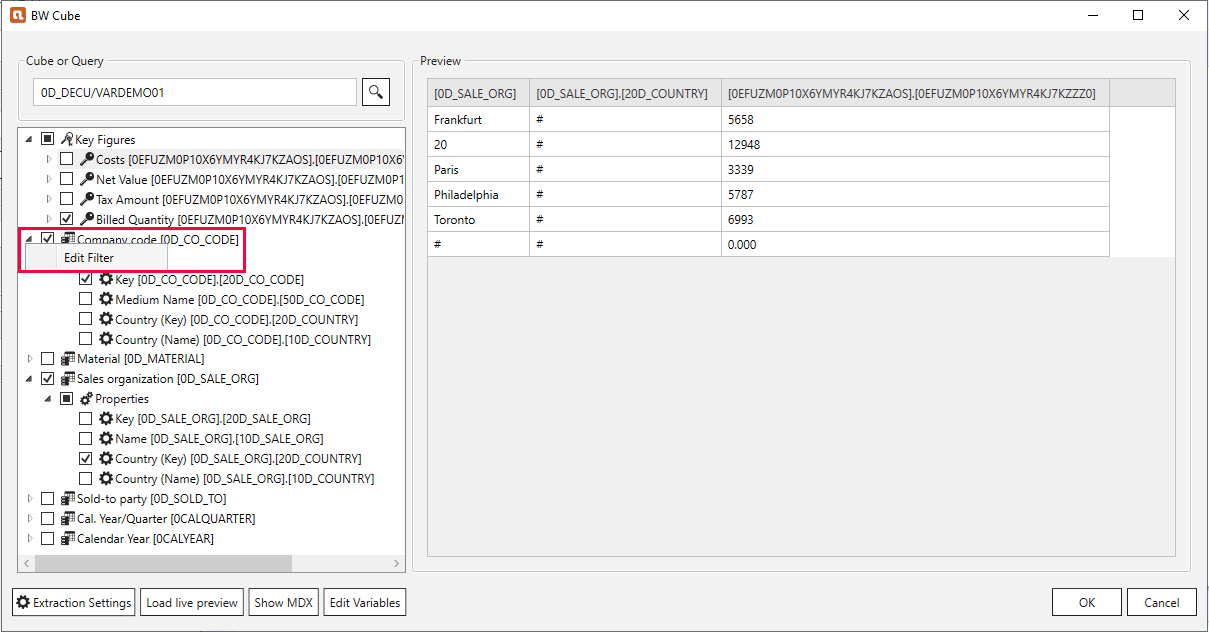
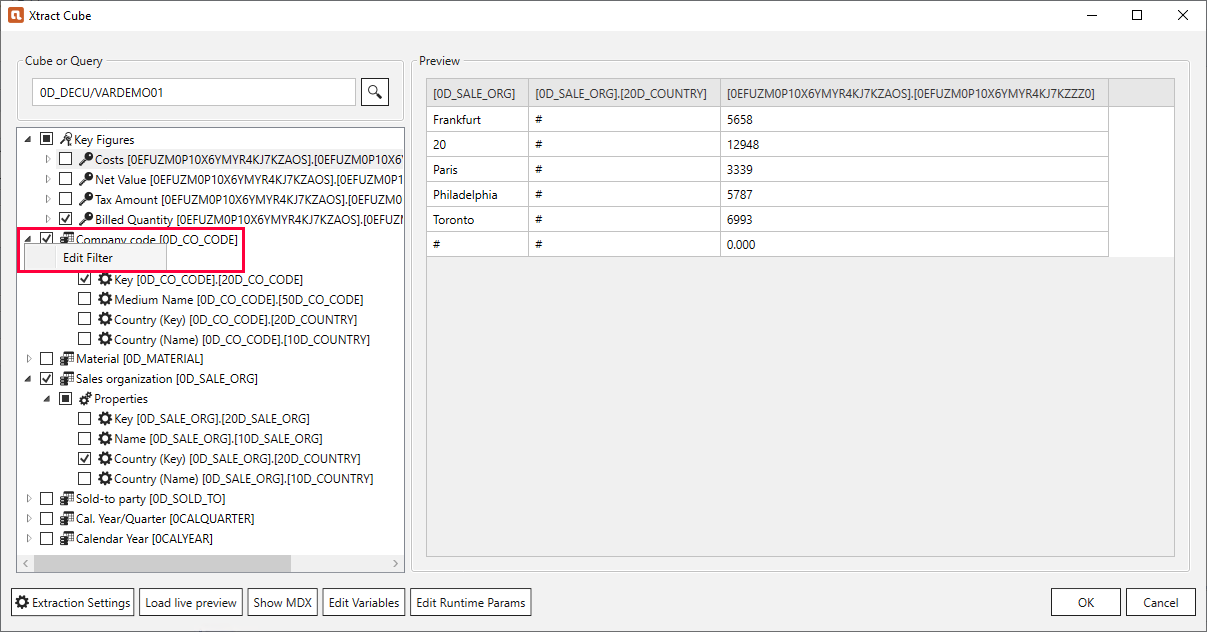
Translation pt.1

diff --git a/content/_de/xtract-for-alteryx/bw-cube.md b/content/_de/xtract-for-alteryx/bw-cube.md
@@ -11,17 +11,17 @@ weight: 6
 lang: de_DE
 progressstate: 5
 ---
-Der folgende Abschnitt beschreibt die Funktion der Xtract for Alteryx BW Cube Komponente. <br>
-Die BW Cube Komponente von Xtract for Alteryx kann verwendet werden, um die Daten aus  SAP BW InfoProviders (z.B. Cubes) oder Queries zu extrahieren und im Anschluss in Alteryx weiter zu bearbeiten.
+Der folgende Abschnitt beschreibt die Funktion der Xtract Cube Komponente in Xtract for Alteryx. <br>
+Die Xtract Cube Komponente kann verwendet werden, um die Daten aus SAP BW (BEx) Queries und InfoProviders (z.B. InfoCubes) zu extrahieren. 
+Die Xtract Cube Komponente unterstützt zwei Extraktionmodi: MDX und BICS (beta).
 
 {: .box-tip }
 **Tipp:** Grundlagen zum Produkt sind im Abschnitt [Erste Schritte mit Xtract for Alteryx](./erste-schritte) beschrieben.
 
 ### BW Cube verwenden
 1. Ziehen Sie die "Xtract BW Cube" Komponente per drag & drop auf Ihr Alteryx-Workflow.
-2. Wählen Sie eine SAP-Verbindung, navigieren Sie zu der **gewählten Extraktion** und klicken Sie auf **[Edit]**. Das Hauptfenster der Komponente öffnet sich.
+2. Wählen Sie eine SAP-Verbindung, navigieren Sie zur gewählten Extraktion und klicken Sie auf **[Edit]**. Das Hauptfenster der Komponente öffnet sich.
 
-Auf die meisten Funktionen der Komponente kann über das Hauptfenster zugegriffen werden.
 
 ### Funktionsübersicht
 Das Hauptfenster der BW Cube Komponente besteht aus zwei Unterabschnitten und einigen  Schaltflächen:
@@ -31,18 +31,18 @@ Das Hauptfenster der BW Cube Komponente besteht aus zwei Unterabschnitten und ei
 ![Cube Extractor](/img/content/xfa/xfa-cube-query-overview.png){:class="img-responsive"}
 
 #### Cube or Query
-Innerhalb des Unterabschnitts **Cube or Query** können Sie nach Queries oder BW Cubes / InfoProvider suchen über **[Suche]** (Lupensymbol).
-Die Felder *Key Figures*, *Dimensions* und *Properties*, die für ein Output ausgewäht sind, werden in diesem Unterabschnitt angezeigt. 
+Im Unterabschnitt **Cube or Query** können Sie über **[Suche]** (Lupensymbol) nach BEx-Queries oder InfoProviders suchen.
+Die Felder *Key Figures*, *Dimensions* und *Properties*, die für die Ausgabe ausgewäht werden können, werden in diesem Unterabschnitt angezeigt. 
 
 
 #### Preview
-Im Unterabschnitt **Preview**  wird der Inhalt des ausgewählten Querys oder BW Cubes / InfoProviders when clicking the **[Load Live Preview]** button.
+Der Unterabschnitt **Preview** zeigt eine Echtzeit-Vorschau der ausgewählten BEx-Query oder des ausgewählten InfoProviders an. Klicken Sie dafür auf die Schaltfläche **[Load Live Preview]**.
 
 #### Schaltflächen
-- **[Extraction Settings]** öffnet die [extraktionsspezifische Einstellungen](./bw-cube/bw-cube-einstellungen) z.B. Paketgröße (Package Size), Zeilenbegrenzung (Row Limit) oder Automatic Slicing Dimension. <br>
-- **[Load live preview]** lädt eine Echtzeitvorschau einer Query oder eines BW Cubes / InfoProviders ohne eine Extraktion auszuführen.
-- **[Show MDX]** zeigt das für die Selektion generierte MDX-Statement, das zur Laufzeit auf dem BW-System ausgeführt wird.Wenn der Zugang zum BW-System verfügbar ist, können Sie zusätzlich die Transaktion *MDXTEST* verwenden, um das MDX-Statement zu verwenden.
-- **[Edit Variables]** ermöglicht die Definition der [Variablen](./bw-cube/bw-cube-variablen). 
+- **[Extraction Settings]** öffnet die [Extraktionseinstellungen](./bw-cube/bw-cube-einstellungen), z.B. **Paketgröße (Package Size)**, **Zeilenbegrenzung (Row Limit)** oder **Automatic Slicing Dimension**. <br>
+- **[Load live preview]** lädt eine Echtzeitvorschau einer BEx-Query oder eines InfoProviders ohne eine Extraktion auszuführen.
+- **[Show MDX]** zeigt das für die Selektion generierte MDX-Statement, das zur Laufzeit auf dem BW-System ausgeführt wird. Im BICS-Modus ist diese Schaltfläche nicht verfügbar. Um das MDX-Statement zu testen, können Sie die SAP-Transaktion *MDXTEST* verwenden.
+- **[Edit Variables]** ermöglicht die Definition von [BEx Query-Variablen](./bw-cube/bw-cube-variablen). 
 - **[Edit Runtime Parameters]** ermöglicht die Definition von [Laufzeitparametern](./bw-cube/edit-runtime-parameters). 
 
 Weitere Informationen zum Arbeiten mit der BW Cube Komponente finden Sie in den folgenden Unterabschnitten.

diff --git a/content/_de/xtract-for-alteryx/bw-cube/bw-cube-einstellungen.md b/content/_de/xtract-for-alteryx/bw-cube/bw-cube-einstellungen.md
@@ -1,7 +1,7 @@
 ---
 ref: xfa-bw-cube-04
 layout: page
-title: Einstellungen
+title: Extraktionseinstellungen
 description: Einstellungen
 product: xtract-for-alteryx
 parent: bw-cube
@@ -10,41 +10,45 @@ weight: 4
 lang: de_DE
 ---
 
-### Extraction Settings öffnen
+Klicken Sie im Hauptfenster der Xtract Cube Komponente auf **[Extraction Settings]**, um die Extraktionseinstellungen aufzurufen.
 
-1. Im Hauptfenster des Designers klicken Sie auf **[Extraction Settings]**. Das Fenster “Cube Settings” wird geöffnet.
-![Cube Extraction Settings](/img/content/xfa/xfa_cube_settings.png){:class="img-responsive"}
-2. Ändern Sie die Einstellungen, falls erforderlich.
-3. Klicken Sie auf **[OK]** zum Bestätigen.
+![XU_BWCube_Settings](/img/content/XU_BWCube_Settings1.png){:class="img-responsive"}
 
-### Cube Einstellungen
-Das Fenster “Cube Settings” besteht aus zwei Unterabschnitten:
-- Extraction Settings
-- Automatic Slicing Dimension
+### Extraktionseinstellungen
 
-#### Extraction Settings
+{: .box-note }
+**Hinweis:**  Die folgenden Einstellungen sind nur im MDX-Modus verfügbar.
+
 **Package Size**<br>
-definiert, wie viele Datensätze in einem Datenpaket von SAP geholt werden. <br>
-Werte zwischen 10.000 und 100.000 sind bei großen Datenmengen sinnvoll. <br>
+Definiert, wie viele Datensätze in einem Datenpaket von SAP geholt werden. 
+Werte zwischen 10.000 und 100.000 sind bei großen Datenmengen sinnvoll. 
 Wenn der Wert auf 0 gesetzt wird, wird die gesamte Ergebnismenge auf einmal abgerufen.
 
 {: .box-tip }
 **Empfehlung**: Definieren Sie immer eine Paketgröße.
 
 **Row Limit**<br>
-definiert die maximale Anzahl von Zeilen in der Ergebnismenge. <br>
+Definiert die maximale Anzahl von Zeilen in der Ergebnismenge. 
 Wenn der Wert auf 0 gesetzt wird, wird die komplette Ergebnismenge abgerufen.<br>
-Beim Testen kann es sinnvoll sein, eine Zeilengrenze von z.B. 1000 (**nicht** 0) zu setzen,um einen Test mit einer kleinen Datenmenge durchzuführen.<br>
+Um Tests mit kleinen Datenmengen durchzuführen, können Sie die Zeilengrenze z.B. auf 1000 festlegen.<br>
 
-{: .box-note }
-**Hinweis:** wenn Sie den Zeilengrenzwert ändern, denken Sie daran, ihn wieder auf 0 zu setzen, um die vollständige Ergebnismenge zu erhalten.<br>
+**Formatted Values** <br>
+Wenn diese Checkbox aktiv ist, werden die Werte von Kennzahlen so ausgegeben, wie sie im Query-Designer definiert wurden, z.B. Skalierungsfaktor und Dezimalstellen.
 
 #### Automatic Slicing Dimension
 
-Diese Option legt eine Dimension für ein automatisches Slicing fest. Unter Slicing versteht man das Auswählen einer Teilmenge eines Würfels durch Auswahl eines einzelnen Wertes für eine seiner Dimensionen. Automatisches Slicing bedeutet, dass für jeden Einzelwert der gewählten Slicing-Dimension (Merkmal) eine Schleife ausgeführt wird, um das Ergebnis aus dem BW zu extrahieren.
-Automatic Slicing Dimension ermöglicht die Extraktion einer großen Datenmenge (Millionen von Sätzen) aus dem BW, was bisher aufgrund von Fehlern auf BW-Seite (wie z.B. Pufferüberlauf und Timeout) nicht möglich war.
+Diese Option definiert eine Dimension für ein automatisches Slicing. 
+
+Bei einem automatischen Slicing werden mehrere kleine Teilmengen extrahiert.
+Die Auswahl der Teilmengen basiert auf der gewählten Dimension für das Slicing.
+
+Im ersten Schritt werden unter Berücksichtigung aller Filter und BEx-Variablen alle Merkmale der gewählten Slicing-Dimension bestimmt.
+Im zweiten Schritt iteriert die Xtract Cube Komponente durch die Liste der bestimmten Merkmale und 
+fügt das jeweils aktuelle Merkmal als Filter für die zu extrahierende Auswahl hinzu.
+
+Auf diese Weise können Pufferüberläufe auf SAP-Seite vermieden werden.
 
 {: .box-note }
-**Hinweis:** Stellen Sie sicher, dass Sie die geeignete Dimension für Automatic Slicing wählen. In einigen Fällen ist es ratsam, eine Dimension mit granulareren Werten zu wählen (z.B. einen bestimmten Zeitabschnitt oder Woche).
-
+**Hinweis:** Setzen Sie **Automatic Slicing Dimension** nur bei Extraktionen ein, die sonst zu Puffferüberläufen auf SAP-Seite führen.
+Eine geeignete Slicing-Dimension enthält eine durchschnittliche Anzahl an Merkmalen, z.B. 0COMP_CODE oder 0CALMONTH.
 

diff --git a/content/_de/xtract-for-alteryx/bw-cube/bw-cube-variablen.md b/content/_de/xtract-for-alteryx/bw-cube/bw-cube-variablen.md
@@ -1,7 +1,7 @@
 ---
 ref: xfa-bw-cube-02
 layout: page
-title: BW Cube / Query-Variablen
+title: BEx Query-Variablen
 description: Query-Variablen
 product: xtract-for-alteryx
 parent: bw-cube
@@ -10,21 +10,25 @@ weight: 2
 lang: de_DE
 ---
 
-### Über Query Variablen
-BW-Queries haben oft definierte Variablen zum Erstellen von Filteroptionen. Abhängig vom Typ der BEx-Variablen (Einzelwert, Mehrfachwert, Intervall oder komplexe Auswahl) werden die Eingabefelder der Variablen aktiviert oder deaktiviert.
-Anstatt einen Wert für die BEx-Variable hart einzugeben, können Sie Variablen mit Werten definieren, die dynamisch gesetzt werden können.
-Verwenden Sie das **@**-Symbol vor dem Variablennamen im Eingabefeld, um den Eintrag als Variable zu definieren z.B.  *@salesorg*. 
+### Über Query-BEx-Variablen
+BEx-Queries verwenden häufig Variablen zum Erstellen von Filtern. 
+Abhängig vom Typ der BEx-Variablen (Einzelwert, Mehrfachwert, Intervall oder komplexe Auswahl) werden die Eingabefelder der Variablen aktiviert oder deaktiviert.
 
-### Variablen anpassen
-1. Um nach Queries zu [suchen](https://help.theobald-software.com/de/xtract-for-alteryx/bw-cube/bw-cube-extraction-anlegen#nach-bw-cube-oder-query-suchen) und wählen Sie ein Query mit definierten Variablen aus (1).
-2. Laden Sie eine Echtzeitvorschau (2), falls erforderlich. 
+Anstatt Werte für BEx-Variablen hart einzugeben, können Sie Parameter definieren, die zur Laufzeit dynamisch gesetzt werden können, siehe [Laufzeitparameter](./edit-runtime-parameters) und [Parametrisierung](../parameterizing).
+
+### BEx-Variablen anpassen
+1. Rufen Sie eine BEx-Query auf, die BEx-Variablen verwendet (1), siehe [Eine BEx-Query oder einen BW InfoProvider finden](./bw-cube-extraction-anlegen#bw-cube-oder-query-finden).
 ![Edit Variables Button](/img/content/xfa/xfa_variables.png){:class="img-responsive"}
-3. Klicken Sie auf **[Edit Variables]** (3). Das Fenster "Edit variables for [Name des Query]" wird geöffnet.
-4. Felder mit verfügbaren Variablen werden aktiviert. Definieren Sie die Variablen mit Hilfe der Dropdown-Listenoptionen in den Feldern **Sign** und **Option**. Wählen Sie den Wertebereich, falls erforderlich. Die Logik der komplexen Auswahl beruht auf den üblichen Möglichkeiten. Die Spezifikation **Sign** definiert, ob die zugehörige Auswahl ein- oder ausgeschlossen werden soll.
-5. Klicken Sie auf **[Suche]** (Lupensymbol), um die auswählbaren Variablenwerte anzuzeigen.
+2. Klicken Sie auf **[Edit Variables]** (3). Das Fenster "Edit variables for [Name des BEx-Query]" wird geöffnet und Felder mit verfügbaren Variablen werden aktiviert.
+3. Definieren Sie die Variablen mit Hilfe der Dropdown-Listenoptionen in den Spalten **Sign** und **Option**. <br>
+Unter **Sign** wird definiert, ob die zugehörige Auswahl in die Ergebnismenge ein- oder ausgeschlossen werden soll.<br>
+Unter **Option** wird die Auswahl definiert. <br>
+Um BEx-Variablen der Typen *MultipleSignle* und *Complex* zu bearbeiten, klicken Sie auf **[Edit]** 
+4. Falls verfügbar, klicken Sie auf **[Suche]** (Lupensymbol) neben den Feldern, um eine Liste auswählbarer Variablenwerte anzuzeigen. Beispiel:<br>
 ![Edit Variables](/img/content/xfa/xfa_query_var.png){:class="img-responsive"}
-6. Klicken Sie auf **[Ok]** zum Bestätigen. 
-7. Klicken Sie auf **[Load Live Preview]** um eine Vorschau der gefilterten Ergebnisse anzuzeigen.
+Sie können einen Wert aus der Liste auswählen, einen Wert manuell eintragen oder einen [Laufzeitparameter](./edit-runtime-parameters) auswählen.
+5. Klicken Sie auf **[OK]**, um Ihre Eingabe zu bestätigen. 
+6. Klicken Sie auf **[Load Live Preview]** um eine Vorschau der gefilterten Ergebnisse anzuzeigen.
 
 *****
 #### Weiterführende Links

diff --git a/content/_de/xtract-for-alteryx/bw-cube/bw-cube-extraction-anlegen.md b/content/_de/xtract-for-alteryx/bw-cube/bw-cube-extraction-anlegen.md
@@ -11,16 +11,17 @@ lang: de_DE
 progressstate: 5
 ---
 Der folgende Abschnitt beschreibt die Anwendung der BW Cube Komponente.<br>
-Die Komponente BW Cube kann verwendet werden, um Daten aus BW InfoProvidern (z.B. Cubes) direkt oder aus BW Queries zu extrahieren. Die BW Queries können in diesem Fall auf allen möglichen InfoProvidern basieren. <br>
-Ein üblicher Ansatz für die Extraktion besteht darin, eine Abfrage zu erstellen, die Ihren Geschäftsanforderungen entspricht.
 
-### BW Cube oder Query finden
-1. Im Hauptfenster des Designers navigieren Sie zum Unterabschnitt **Cube or Query** und klicken Sie auf  **[Suche]** (Lupensymbol). Das Fenster “Cube or Query Lookup” wird geöffnet.
+### Eine BEx Query oder einen BW Infofrovider finden
+1. Klicken Sie im Hauptfenster der Komponente auf  **[Suche]** (Lupensymbol). Das Fenster “Cube and Query Lookup” wird geöffnet.
 ![Cube Query search](/img/content/xfa/xfa_cube-query-look.png){:class="img-responsive"}
-2. Geben Sie im Feld **Name** (1) den Namen des Query oder des BW Cubes / InfoProviders ein. Die Verwendung von Wildcards (*) ist unterstützt. 
-3. Definieren Sie den Typ des gesuchten Objekts im Feld **Type** (2).
+2. Geben Sie im Feld **Name** (1) den Namen eines BEx-Queries oder eines InfoProviders ein. Verwenden Sie Wildcards (*), falls notwendig.
+3. Definieren Sie den Extraktor und Typ des gesuchten Objekts den Feldern **Extractor** und **Type** (2).<br>
+- **Extractor** definiert, ob Daten mit dem OLAP BAPI Interface (MADX) oder dem nativen BICS Interface extrahiert werden. BICS befindet sich noch in der Beta-Phase.
+- **Type** spezifiziert, ob nach einer BEx-Query oder einem InfoProvider gesucht wird.
 4. Klicken Sie auf **[Suche]** (Lupensymbol) (3).
-5. Wählen Sie (4) das Objekt aus der Liste und klicken Sie auf **[OK]** (5) zum Bestätigen.
+5. Wählen Sie (4) das Objekt aus der Liste und klicken Sie auf **[OK]** (5) zum Bestätigen. <br>
+
 
 ### Auswählen von Messwerten ( Key Figures), Abmessungen und Eigenschaften
 Wenn ein Objekt ausgewählt ist, wird im Hauptfenster der Komponente auf der linken Seite eine Baumstruktur angezeigt. Die Baumstruktur stellt die Metadaten der Query (oder des InfoProviders) dar. <br>
@@ -45,4 +46,5 @@ Das erste Verzeichnis enthält alle Messwerte (Kennzahlen) (1). Die folgenden Ve
 
 ****
 #### Weiterführende Links
+- [Allow external access to BW Queries](https://kb.theobald-software.com/general/allow-external-access-to-bw-queries).
 - [Query Variablen](./bw-cube-variablen)

diff --git a/content/_de/xtract-for-alteryx/bw-cube/edit-runtime-parameters.md b/content/_de/xtract-for-alteryx/bw-cube/edit-runtime-parameters.md
@@ -9,7 +9,7 @@ permalink: /:collection/:path
 weight: 3
 lang: de_DE
 ---
-Verwenden Sie Laufzeitparameter, um Dimensionsfilter und Variablen dynamisch zur Laufzeit anzupassen.<br>
+Verwenden Sie Laufzeitparameter, um Dimensionsfilter und BEx-Variablen dynamisch zur Laufzeit anzupassen.<br>
 
 ### Laufzeitparameter erstellen 
 
@@ -22,17 +22,17 @@ Das Fenster "Edit Runtime Parameters" öffnet sich.<br>
 - String: dieser Datentyp kann für jeden Typ der SAP-Felder verwendet werden.
 - Number: dieser Datentyp kann nur für numerische SAP-Felder verwendet werden.
 - Flag: dieser Datentyp kann nur für SAP-Felder verwendet werden, die einen 'X'&nbsp;(true) oder eine leere Eingabe ''&nbsp;(false) als Eingabewert benötigen. <br>
-4. Klicken Sie auf **[OK]** (3) zum Bestätigen.
+4. Klicken Sie auf **[OK]** (3), um Ihre Eingabe zu bestätigen.
 
 
 ### Laufzeitparameter zuweisen
 
-Weisen Sie Variablen oder Dimensionsfiltern Laufzeitparameter zu.
+Weisen Sie BEx-Variablen oder Dimensionsfiltern Laufzeitparameter zu.
 
 1. Um die erstellten Laufzeitparameter für Variablen zu verwenden, klicken Sie im Hauptfenster der Komponente auf **[Edit Variables]**. Das Fenster "Edit variables..." öffnet sich, siehe [Variablen](./variablen).<br> 
- Um die erstellten Laufzeitparameter direkt für Dimensionsfilter zu verwenden, rechtsklicken Sie im Hauptfenster der Komponente auf eine Dimension und klicken Sie dann auf **Edit Filter**. Das Fenster "Member Filter" öffnet sich, siehe [Einstellen eines Dimensionsfilters](./eine-bw-cube-quelle-definieren#einstellen-eines-dimensionsfilters).
+Um die erstellten Laufzeitparameter als Dimensionsfilter zu verwenden, rechtsklicken Sie im Hauptfenster der Komponente auf eine Dimension und wählen Sie **Edit Filter**. Das Fenster "Member Filter" öffnet sich, siehe [Einstellen eines Dimensionsfilters](./eine-bw-cube-quelle-definieren#einstellen-eines-dimensionsfilters).
 2. Wenn Sie Parameter angelegt haben, wird neben den Eingabefeldern ein Parametersymbol angezeigt (4). <br>
 Klicken Sie auf die Icons, um zwischen der Eingabe fester Werte und der Eingabe von Parametern zu wechseln.  <br>
 ![Selection With Parameters](/img/content/bwcube-parameters.png){:class="img-responsive"}
-3. Wenn Sie auf Parametereingabe umgeschaltet haben, können einen Parameter aus der Drop-Down-Liste (5) auswählen.
+3. Wenn ein Feld auf Parametereingabe umgeschaltet ist, können Sie einen Parameter aus der Drop-Down-Liste (5) auswählen.
 

diff --git a/content/_en/xtract-for-alteryx/bw-cube/bw-cube-settings.md b/content/_en/xtract-for-alteryx/bw-cube/bw-cube-settings.md
@@ -10,7 +10,7 @@ weight: 4
 lang: en_GB
 ---
 
-Click the button **[Extraction Settings]** in the main window of the component to open the “Cube Settings” window.
+Click the button **[Extraction Settings]** in the main window of the component to open the “Cube Settings” window.<br>
 ![XU_BWCube_Settings](/img/content/XU_BWCube_Settings1.png){:class="img-responsive"}
 
 ### Extraction Settings
@@ -28,8 +28,7 @@ If the value is set to 0, the complete result set is fetched at one time.
 
 **Row Limit** <br>
 Defines the maximum number of rows in the result set.
-If the value is set to 0, the complete result set is fetched.
-
+If the value is set to 0, the complete result set is fetched.<br>
 Enter a value, e.g. 1,000, for **Row Limit** to perform tests by extracting only a small amount of data.
 
 **Formatted Values** <br>
@@ -42,10 +41,16 @@ This option sets a dimension that is used for automatic slicing.
 Automatic slicing executes multiple smaller select statements instead of a single select statement. 
 Slicing happens based on the members of the selected slicing dimension. 
 
-In a first step, all members of the selected slicing dimension are determined, taking into account filters and BEx variables. In the second step, the Xtract Cube components sequentially iterates through the list of determined members, each time adding the current member as a filter to the select statement.
+In a first step, all members of the selected slicing dimension are determined, 
+taking into account filters and BEx variables. 
+In the second step, the Xtract Cube components sequentially iterates
+ through the list of determined members, each time adding the current member as a filter to the select statement.
 
 This way, out-of-memory-issues on the SAP side can be avoided.
 
 {: .box-note }
-**Note:**  Set an Automatic Slicing Dimension only for extractions that would otherwise run into out-of-memory issues on the SAP side. A suitable Slicing Dimension would contain an average amount of members e.g., 0COMP_CODE or 0CALMONTH.
+**Note:**  Set an Automatic Slicing Dimension only for extractions that would 
+otherwise run into out-of-memory issues on the SAP side. 
+A suitable Slicing Dimension would contain an average amount of members 
+e.g., 0COMP_CODE or 0CALMONTH.
 

diff --git a/content/_en/xtract-for-alteryx/bw-cube/bw-cube-variables.md b/content/_en/xtract-for-alteryx/bw-cube/bw-cube-variables.md
@@ -11,9 +11,13 @@ lang: en_GB
 ---
 
 ### About BEx Query Variables
-BEx queries often use BEx variables to set a filter before query execution. Depending on the type of BEx variable (single value, multiple value, interval or complex selection) input fields of the variables are enabled or disabled.
+BEx queries often use BEx variables to set a filter before query execution. 
+Depending on the type of BEx variable (single value, multiple value, interval or complex selection) input fields of the variables are enabled or disabled.
 
-Instead of hard coding values for BEx variables, you can define parameters that can be set dynamically at runtime, see [Runtime Parameters](./edit-runtime-parameters) and [Parameterizing](./parameterizing).
+Instead of hard coding values for BEx variables, 
+you can define parameters that can be set dynamically at runtime, 
+see [Runtime Parameters](./edit-runtime-parameters) and 
+[Parameterizing](../parameterizing).
 
 ### Editing BEx Variables
 1. Do a [lookup](./using-bw-cube-component#look-up-a-bw-cube-or-query) on a BEx Query that uses BEx variables (1).
@@ -22,9 +26,9 @@ Instead of hard coding values for BEx variables, you can define parameters that 
 ![Edit-Variables](/img/content/Edit-Variables.png){:class="img-responsive"}
 3. Define the variables using the drop-down list options in the columns **Sign** and **Option**. <br>
 The **Sign** specification defines whether the respective selection column is included or excluded in the result. <br>
-The **Option** specification defines how the selection column is made. <br>
+The **Option** specification defines the selection. <br>
 To edit variables of the types *multiple value* and *complex selection*, click **[Edit]**.
-4. If available, click the **[magnifying glass]** symbol next to the fields to display a list of selectable variable values. Example:
+4. If available, click the **[magnifying glass]** symbol next to the fields to display a list of selectable variable values. Example:<br>
 ![Edit Variables](/img/content/xfa/xfa_query_var.png){:class="img-responsive"}
 You can select a value from the list of selectable variable values, enter values manually or assign a [runtime parameter](./edit-runtime-parameters).
 5. Click **[OK]** to confirm your input. 

diff --git a/content/_en/xtract-for-alteryx/bw-cube.md b/content/_en/xtract-for-alteryx/bw-cube.md
@@ -1,7 +1,7 @@
 ---
 ref: xtract-for-alteryx-06
 layout: page
-title: Xtract Cube
+title: BW Cube
 description: Xtract Cube Component
 product: xtract-for-alteryx
 parent: xtract-for-alteryx
@@ -12,7 +12,8 @@ lang: en_GB
 progressstate: 5
 ---
 The following section describes the functions of the Xtract Cube component in Xtract for Alteryx.<br>
-The Xtract Cube component can be used to extract data from SAP BW (BEx) Queries and InfoProviders (e.g. InfoCubes). The Xtract Cube component supports two different extraction modes: MDX and BICS (beta).
+The Xtract Cube component can be used to extract data from SAP BW (BEx) Queries and InfoProviders (e.g. InfoCubes). 
+The Xtract Cube component supports two different extraction modes: MDX and BICS (beta).
 
 {: .box-tip }
 **Tip:** To get information on the basics of Xtract for Alteryx, refer to [Getting Started with Xtract for Alteryx](./getting-started).
@@ -41,9 +42,9 @@ The **Preview** subsection displays real preview data of the selected BEx Query 
 **Note:** In MDX mode, the first 100 rows are fetched for preview. In BICS mode, the **complete** result set is fetched.
 
 #### Buttons
-- **[Extraction Settings]** opens the [extraction specific settings](./bw-cube/bw-cube-settings) e.g., Package Size, Row Limit or Automatic Slicing Dimension. <br>
+- **[Extraction Settings]** opens the [extraction specific settings](./bw-cube/bw-cube-settings) e.g., **Package Size**, **Row Limit** or **Automatic Slicing Dimension**. <br>
 - **[Load live preview]** loads real preview data of selected BEx Query or InfoProvider.
-- **[Show MDX]** displays the MDX statement which will be executed at run-time on the BW system. Not available when BICS mode was selected.  For testing purposes, run the MDX statement in SAP transaction *MDXTEST*.
+- **[Show MDX]** displays the MDX statement which will be executed at runtime on the BW system. Not available in BICS mode. For testing purposes, run the MDX statement in SAP transaction *MDXTEST*.
 - **[Edit Variables]** allows defining [BEx Query variables](./bw-cube/bw-cube-variables). 
 - **[Edit Runtime Parameters]** allows defining [runtime parameters](./bw-cube/edit-runtime-parameters). 
 

diff --git a/content/_en/xtract-for-alteryx/bw-cube/using-bw-cube-component.md b/content/_en/xtract-for-alteryx/bw-cube/using-bw-cube-component.md
@@ -14,8 +14,8 @@ The following section shows how to use the Xtract Cube component. <br>
 ### Look up a BEx Query or BW InfoProvider
 1. In the main window of the component click the **[Search]** button (magnifying glass symbol). The window “Cube and Query Lookup” opens.
 ![Cube Query search](/img/content/xfa/xfa_cube-query-look.png){:class="img-responsive"}
-2. In the field Name (1) enter a name of a BEx Query or InfoProvider. Use wildcards (*), if needed.
-3.  Define the **Extractor** and **Type** of the object (2).<br>
+2. Enter a name of a BEx Query or InfoProvider in the field **Name** (1). Use wildcards (*), if needed.
+3. Define the **Extractor** and **Type** of the object (2).<br>
 - **Extractor** defines if data is extracted using SAP's OLAP BAPI interface (MDX) or SAP's native BICS interface. BICS is still in beta phase.
 - **Type** specifies if the name entered in 2. is a BEx Query or InfoProvider. (2)
 4. Click **[Search]** (magnifying glass icon)(3).

diff --git a/content/_en/xtract-for-alteryx/bw-cube/edit-runtime-parameters.md b/content/_en/xtract-for-alteryx/bw-cube/edit-runtime-parameters.md
@@ -22,7 +22,7 @@ The window "Edit Runtime Parameters" opens.<br>
 - String: This data type can be used for any type of SAP field.
 - Number: This data type can be used for numeric SAP fields.
 - Flag: This data type can only be used for SAP fields that require an 'X'&nbsp;(true) or a blank ''&nbsp;(false) as input value.<br>
-4. Click **[OK]** (3) to confirm.
+4. Click **[OK]** (3) to confirm your input.
 
 ### Define Runtime Parameters
 
